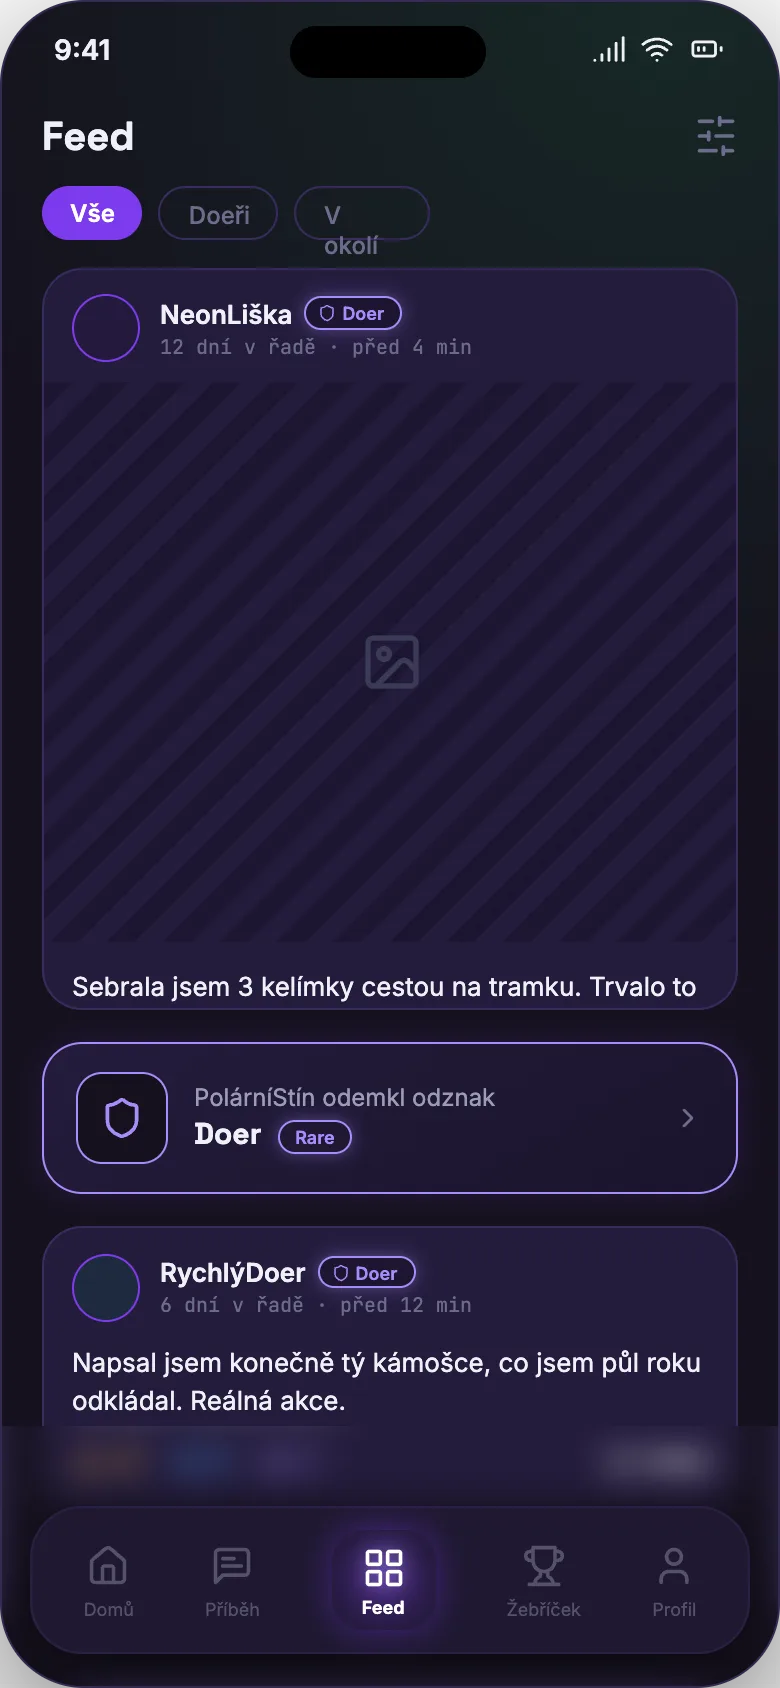
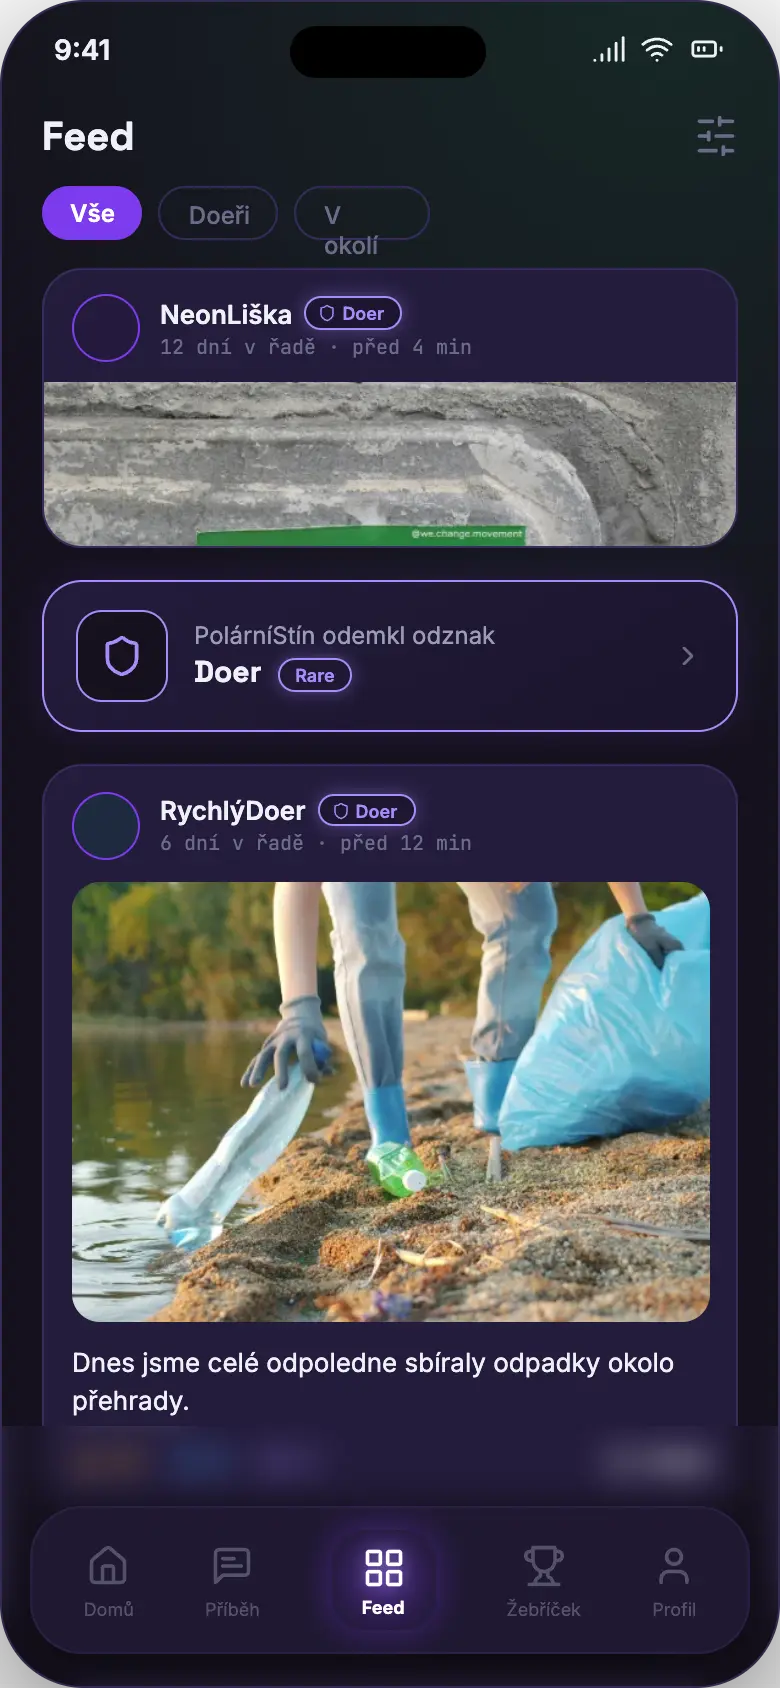
feat(founder): App showcase — nové texty, LIVE badge, aktualizované screenshoty
- Sekce "Nahlédni do vývoje": nový nadpis, text, MVP1 LIVE badge + datum
- Popisky u všech 5 screenshotů přepsané dle finálního znění
- Feed a Mapa cesty nahrazeny aktuálními verzemi obrázků od klienta

diff --git a/src/components/founder/FounderAppShowcase.tsx b/src/components/founder/FounderAppShowcase.tsx
@@ -16,11 +16,11 @@ import FadeIn from "@/components/FadeIn";
  * s přesně tímhle názvem (viz README.md tamtéž) — v kódu není nic potřeba měnit.
  */
 const SCREENS: { image?: string; title: string; desc: string }[] = [
-  { image: "/founder/app/dashboard.webp", title: "Denní přehled", desc: "XP, série a další krok" },
-  { image: "/founder/app/interrupt.webp", title: "Zásah do reality", desc: "Moment, kdy hra promluví do tvého dne" },
-  { image: "/founder/app/feed.webp", title: "Feed komunity", desc: "Vidíš, co právě dělají ostatní" },
-  { image: "/founder/app/share-card.webp", title: "Sdílej úspěch", desc: "Ukaž svůj postup dál" },
-  { image: "/founder/app/roadmap.webp", title: "Mapa cesty", desc: "Tvoje trasa Season 0" },
+  { image: "/founder/app/dashboard.webp", title: "Denní přehled", desc: "Tvůj dnešní krok ve Hře Reality. XP, mise, progres a dění komunity na jednom místě." },
+  { image: "/founder/app/interrupt.webp", title: "Zásah do reality", desc: "Příběh tě pošle něco skutečně udělat. Krátké momenty propojují svět hry s reálným životem." },
+  { image: "/founder/app/feed.webp", title: "Feed hry", desc: "Místo, kde je vidět akce, ne dokonalost. Sleduj, co ostatní hráči skutečně udělali." },
+  { image: "/founder/app/share-card.webp", title: "Share Card", desc: "Proměň svou akci v herní moment. Sdílej progres a pošli výzvu dál." },
+  { image: "/founder/app/roadmap.webp", title: "Mapa cesty", desc: "Vidíš, kde právě jsi a co tě čeká dál. Postupuj uzly Seasons a postupně odemykej další části hry." },
 ];
 
 // Jemný, nesynchronní pohyb (každý telefon plave jinak rychle/s jiným zpožděním)
@@ -45,13 +45,22 @@ export default function FounderAppShowcase() {
       <div className="absolute top-1/2 left-1/2 -translate-x-1/2 -translate-y-1/2 w-[900px] h-[500px] rounded-full bg-primary/5 blur-[140px]" aria-hidden />
       <div className="section-container relative">
         <FadeIn>
-          <p className="text-xs uppercase tracking-widest text-primary mb-3 font-display text-center">Nahlédni dovnitř</p>
+          <p className="text-xs uppercase tracking-widest text-primary mb-3 font-display text-center">Nahlédni do vývoje</p>
           <h2 className="text-3xl sm:text-4xl font-display font-bold mb-4 text-center">
-            Takhle to vypadá <span className="neon-text">v appce</span>.
+            Tohle už není jen nápad. Hra právě vzniká.
           </h2>
-          <p className="max-w-2xl mx-auto text-center text-muted-foreground text-lg mb-20">
-            Zatím rozpracované, ale živé. Žádné vizualizace z prezentace — reálné obrazovky appky, na které právě teď pracujeme.
+          <p className="max-w-2xl mx-auto text-center text-muted-foreground text-lg mb-2">
+            Tohle jsou skutečné obrazovky první verze iWau Hry Reality, na které právě pracujeme. Ne marketingový koncept ani finální design. Rozpracovaný build, který postupně měníme v první hratelnou Season 1.
           </p>
+          <p className="max-w-2xl mx-auto text-center text-sm text-primary/80 mb-10">
+            Jako Founder pomáháš dokončit právě tuhle verzi.
+          </p>
+          <div className="flex flex-wrap items-center justify-center gap-3 mb-20">
+            <span className="inline-flex items-center gap-2 px-4 py-1.5 rounded-full border border-green-500/30 bg-green-500/5 text-green-400 text-xs font-display tracking-widest">
+              🟢 MVP1 · AKTIVNĚ VE VÝVOJI
+            </span>
+            <span className="text-xs text-muted-foreground">Poslední aktualizace: srpen 2026</span>
+          </div>
         </FadeIn>
 
         {/* Jedna řada vedle sebe (ne schodovitě) — na menších šířkách, kam se
@@ -78,7 +87,7 @@ export default function FounderAppShowcase() {
                   </div>
                   <figcaption className="mt-5 text-center">
                     <p className="font-display font-bold text-sm">{s.title}</p>
-                    <p className="text-xs text-muted-foreground mt-0.5">{s.desc}</p>
+                    <p className="text-xs text-muted-foreground mt-1 leading-relaxed">{s.desc}</p>
                   </figcaption>
                 </figure>
               </FadeIn>
